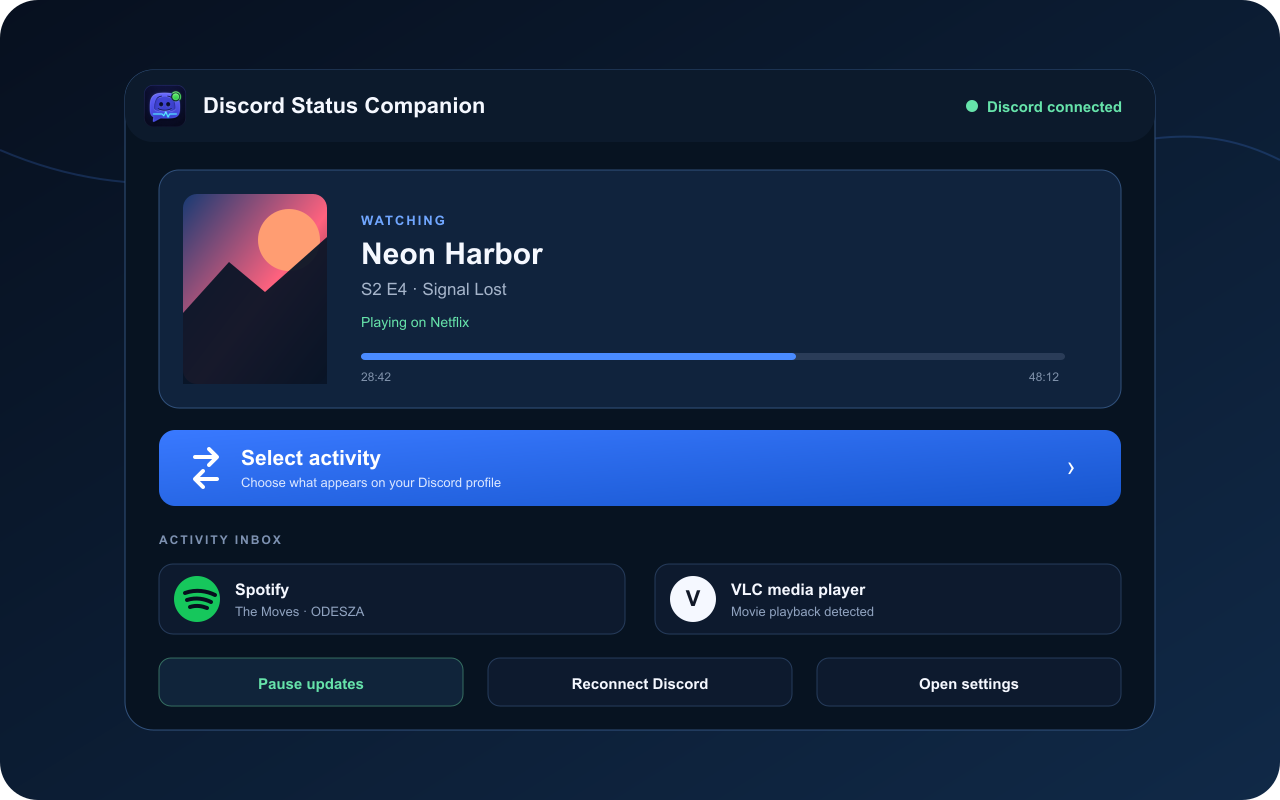
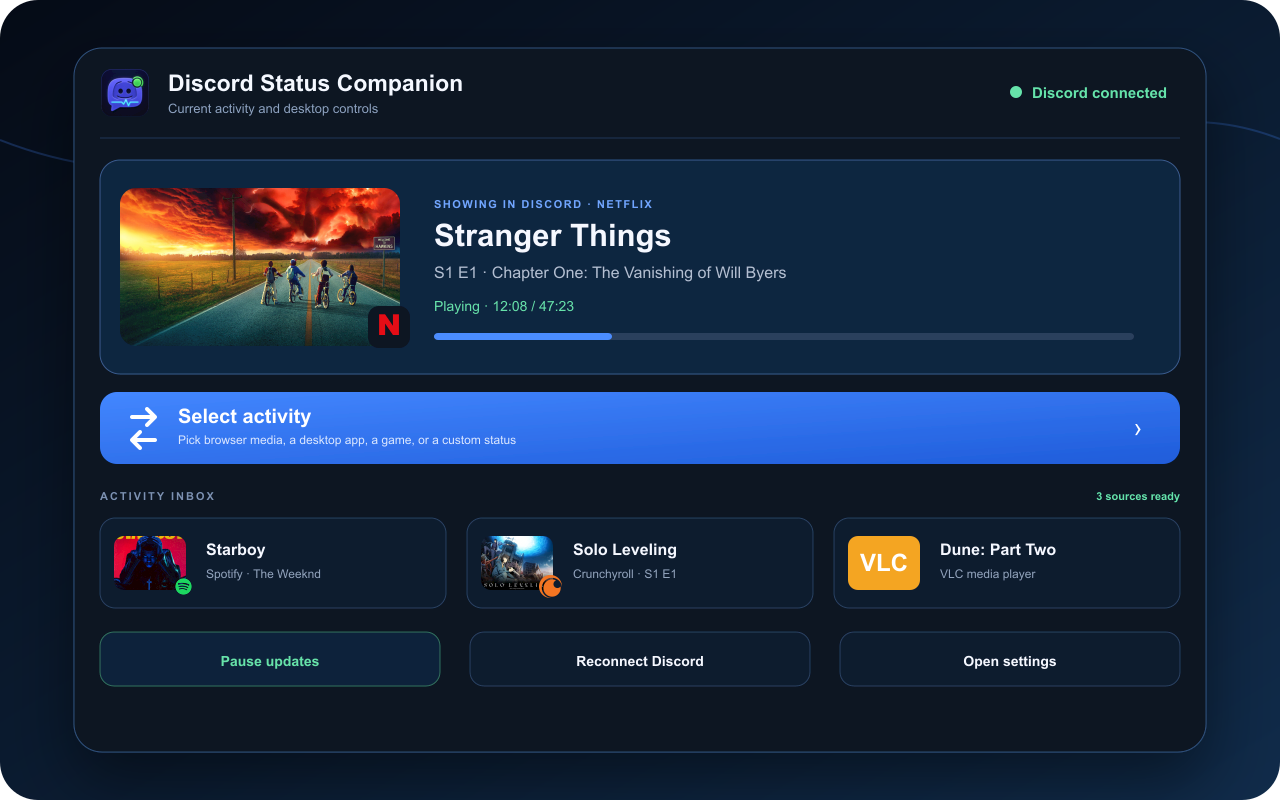
Refresh product previews and release names

diff --git a/docs/index.html b/docs/index.html
@@ -35,7 +35,7 @@
         <article class="product-window">
           <div class="window-top"><div class="window-brand"><img src="assets/icon128.png" alt=""><span>Discord Status</span></div><div class="connected"><i></i>Connected</div></div>
           <div class="now-label">NOW SHOWING</div>
-          <div class="presence-card"><div class="presence-art"><img src="assets/demo-poster.svg" alt="Neon Harbor example poster"></div><div class="presence-copy"><div class="presence-kind">WATCHING</div><strong>Neon Harbor</strong><span>S2 E4 · Signal Lost</span><div class="progress"><i></i></div><div class="time"><span>28:42</span><span>48:12</span></div></div></div>
+          <div class="presence-card"><div class="presence-art"><img src="assets/media/stranger-things-netflix.jpg" alt="Stranger Things artwork from the Netflix title page"></div><div class="presence-copy"><div class="presence-kind">WATCHING · NETFLIX</div><strong>Stranger Things</strong><span>S1 E1 · The Vanishing of Will Byers</span><div class="progress"><i></i></div><div class="time"><span>12:08</span><span>47:23</span></div></div></div>
           <div class="mode-strip"><div class="active"><b>Auto</b><span>Detect and update</span></div><div><b>Active tab</b><span>Only this tab</span></div><div><b>Manual</b><span>Your own status</span></div></div>
           <div class="source-list"><div><img src="assets/site-icons/spotify.png" alt=""><span><b>Spotify</b>The Moves · ODESZA</span><small>2:34</small></div><div><img src="assets/site-icons/github.png" alt=""><span><b>GitHub</b>discord-status</span><small>Active</small></div></div>
         </article>
@@ -48,11 +48,13 @@
     </section>
 
     <section id="interfaces" class="section shell showcase-section">
-      <div class="section-intro reveal"><div class="eyebrow"><span></span>Designed as one product</div><h2>Every control, before you install.</h2><p>See the extension dashboard, companion controls, and desktop settings that work together.</p></div>
+      <div class="section-intro reveal"><div class="eyebrow"><span></span>Designed as one product</div><h2>See the output and every control.</h2><p>See the Discord profile result, extension dashboard, companion controls, selector, and desktop settings that work together.</p></div>
       <div class="showcase-grid">
-        <figure class="showcase-card showcase-wide reveal"><img src="assets/showcase-extension.png" alt="Discord Status extension activity dashboard"><figcaption><span>Chrome extension</span><strong>Choose and preview browser activity</strong></figcaption></figure>
-        <figure class="showcase-card reveal delay-1"><img src="assets/showcase-companion.png" alt="Discord Status Companion dashboard"><figcaption><span>Companion</span><strong>Control Discord and desktop activity</strong></figcaption></figure>
-        <figure class="showcase-card reveal delay-2"><img src="assets/showcase-settings.png" alt="Discord Status Companion settings"><figcaption><span>Settings</span><strong>Configure behavior without guesswork</strong></figcaption></figure>
+        <figure class="showcase-card showcase-wide reveal"><img src="assets/showcase-discord.png" alt="Discord profile showing Stranger Things activity from Discord Status"><figcaption><span>Discord output</span><strong>Title, episode, progress, service, and source artwork</strong></figcaption></figure>
+        <figure class="showcase-card reveal delay-1"><img src="assets/showcase-extension.png" alt="Discord Status extension activity dashboard"><figcaption><span>Chrome extension</span><strong>Choose and preview browser activity</strong></figcaption></figure>
+        <figure class="showcase-card reveal delay-2"><img src="assets/showcase-companion.png" alt="Discord Status Companion dashboard"><figcaption><span>Companion</span><strong>Control Discord and desktop activity</strong></figcaption></figure>
+        <figure class="showcase-card reveal"><img src="assets/showcase-selector.png" alt="Discord Status activity selector"><figcaption><span>Activity selector</span><strong>Pick from Netflix, Crunchyroll, Hotstar, music, apps, and more</strong></figcaption></figure>
+        <figure class="showcase-card reveal delay-1"><img src="assets/showcase-settings.png" alt="Discord Status Companion settings"><figcaption><span>Settings</span><strong>Configure behavior without guesswork</strong></figcaption></figure>
       </div>
     </section>
 

diff --git a/docs/site.js b/docs/site.js
@@ -1,9 +1,9 @@
 const repo = 'GSUS2K/discord-status';
 const fallbackRelease = `https://github.com/${repo}/releases/latest`;
 const platformData = {
-  windows: { title: 'Windows companion', description: 'Setup is the normal choice. MSI is for managed or enterprise deployment.', icon: 'windows', files: [{ label: 'Windows Setup', detail: '.exe · Recommended', match: /x64-setup\.exe$/i }, { label: 'Windows MSI', detail: '.msi · Managed install', match: /x64_en-US\.msi$/i }] },
-  macos: { title: 'macOS companion', description: 'Choose Apple Silicon for M-series Macs or Intel for older Macs.', icon: 'macos', files: [{ label: 'Apple Silicon', detail: '.dmg · M1 and newer', match: /aarch64\.dmg$/i }, { label: 'Intel Mac', detail: '.dmg · x86_64', match: /x64\.dmg$/i }] },
-  linux: { title: 'Linux companion', description: 'AppImage runs portably. DEB integrates with Debian, Ubuntu, and compatible systems.', icon: 'linux', files: [{ label: 'Linux AppImage', detail: '.AppImage · Portable', match: /amd64\.AppImage$/i }, { label: 'Debian / Ubuntu', detail: '.deb · Package install', match: /amd64\.deb$/i }] }
+  windows: { title: 'Windows companion', description: 'Setup is the normal choice. MSI is for managed or enterprise deployment.', icon: 'windows', files: [{ label: 'Windows Setup', detail: '.exe · x64 · Recommended', match: /Windows-x64-Setup\.exe$|x64-setup\.exe$/i }, { label: 'Windows MSI', detail: '.msi · x64 · Managed install', match: /Windows-x64-MSI\.msi$|x64_en-US\.msi$/i }] },
+  macos: { title: 'macOS companion', description: 'Choose Apple Silicon for M-series Macs or Intel for older Macs.', icon: 'macos', files: [{ label: 'Apple Silicon', detail: '.dmg · ARM64 · M1 and newer', match: /macOS-Apple-Silicon\.dmg$|aarch64\.dmg$/i }, { label: 'Intel Mac', detail: '.dmg · x86_64', match: /macOS-Intel-x64\.dmg$|x64\.dmg$/i }] },
+  linux: { title: 'Linux companion', description: 'AppImage runs portably. DEB integrates with Debian, Ubuntu, and compatible systems.', icon: 'linux', files: [{ label: 'Linux AppImage', detail: '.AppImage · x86_64 · Portable', match: /Linux-x86_64\.AppImage$|amd64\.AppImage$/i }, { label: 'Debian / Ubuntu', detail: '.deb · x86_64 · Package install', match: /Linux-Debian-Ubuntu-x86_64\.deb$|amd64\.deb$/i }] }
 };
 let release = null;
 let selectedPlatform = 'windows';

diff --git a/docs/assets/media/README.md b/docs/assets/media/README.md
@@ -1,0 +1,11 @@
+# Media preview sources
+
+These images are used only to demonstrate how source artwork and service identity appear in Discord Status.
+
+- `stranger-things-netflix.jpg`: public Netflix title page for *Stranger Things* (`https://www.netflix.com/title/80057281`).
+- `solo-leveling-crunchyroll.webp`: Crunchyroll News key visual for *Solo Leveling* (`https://www.crunchyroll.com/news/guides/2024/1/6/solo-leveling-anime-trailer-characters-cast-more`).
+- `loki-hotstar.jpg`: *Loki* Season 2 promotional key art (`https://universalextras.co.uk/files/2023/09/Loki-Season-2-2023-TV-Series-Uni-versal-Extras.jpg`). The series is available through Disney+ Hotstar in supported regions.
+- `starboy-spotify.jpg`: Spotify artwork for “Starboy” by The Weeknd and Daft Punk (`https://open.spotify.com/track/7MXVkk9YMctZqd1Srtv4MB`).
+- `blinding-lights-youtube.jpg`: thumbnail from The Weeknd’s official “Blinding Lights” video (`https://www.youtube.com/watch?v=4NRXx6U8ABQ`).
+
+The artwork, titles, and service marks belong to their respective owners.

diff --git a/README.md b/README.md
@@ -35,10 +35,15 @@ Every release includes `SHA256SUMS.txt` for verification.
 
 ## Product
 
-<p align="center"><img src="docs/assets/showcase-extension.png" alt="Discord Status extension activity dashboard" width="900"></p>
+<p align="center"><img src="docs/assets/showcase-discord.png" alt="Discord profile showing Stranger Things on Netflix through Discord Status" width="900"></p>
 
 <p align="center">
+  <img src="docs/assets/showcase-extension.png" alt="Discord Status extension activity dashboard" width="48%">
   <img src="docs/assets/showcase-companion.png" alt="Discord Status Companion dashboard" width="48%">
+</p>
+
+<p align="center">
+  <img src="docs/assets/showcase-selector.png" alt="Discord Status activity selector" width="48%">
   <img src="docs/assets/showcase-settings.png" alt="Discord Status Companion settings" width="48%">
 </p>
 
